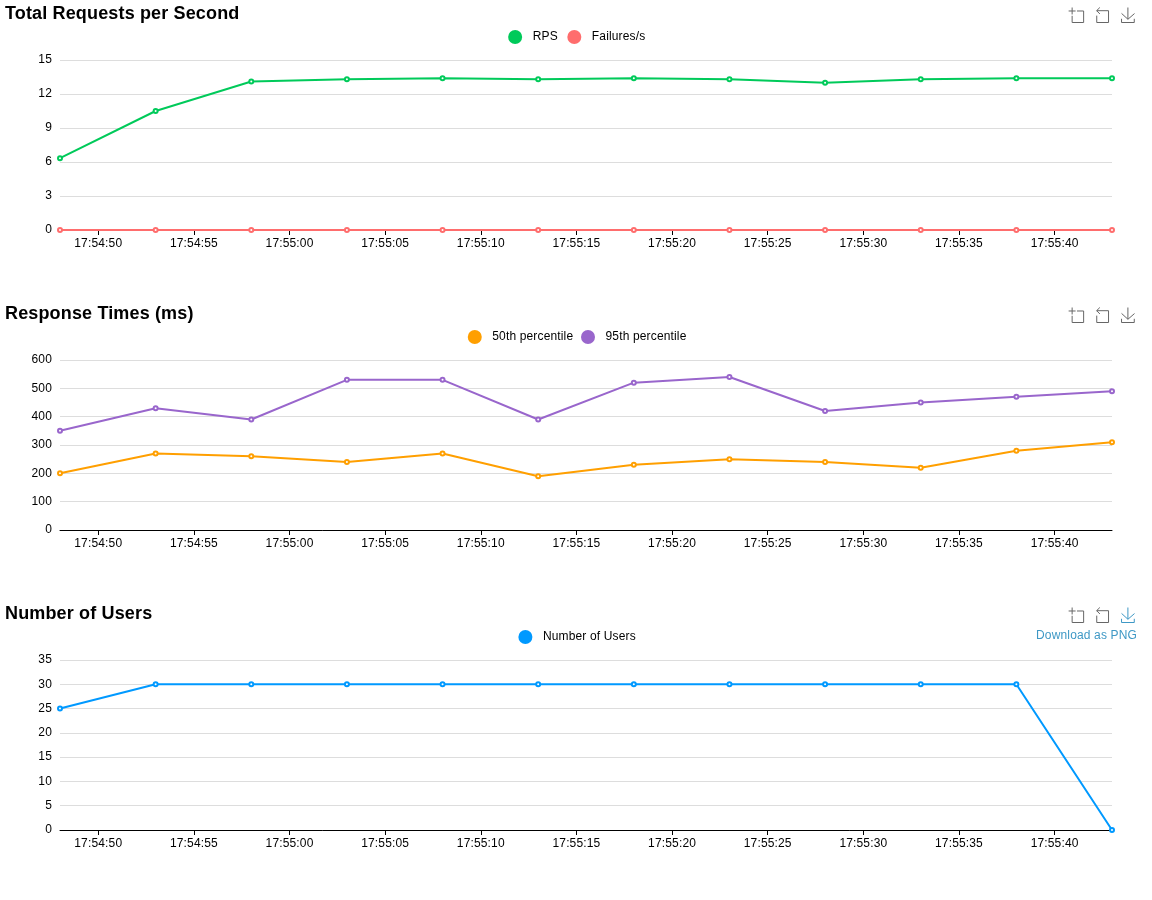
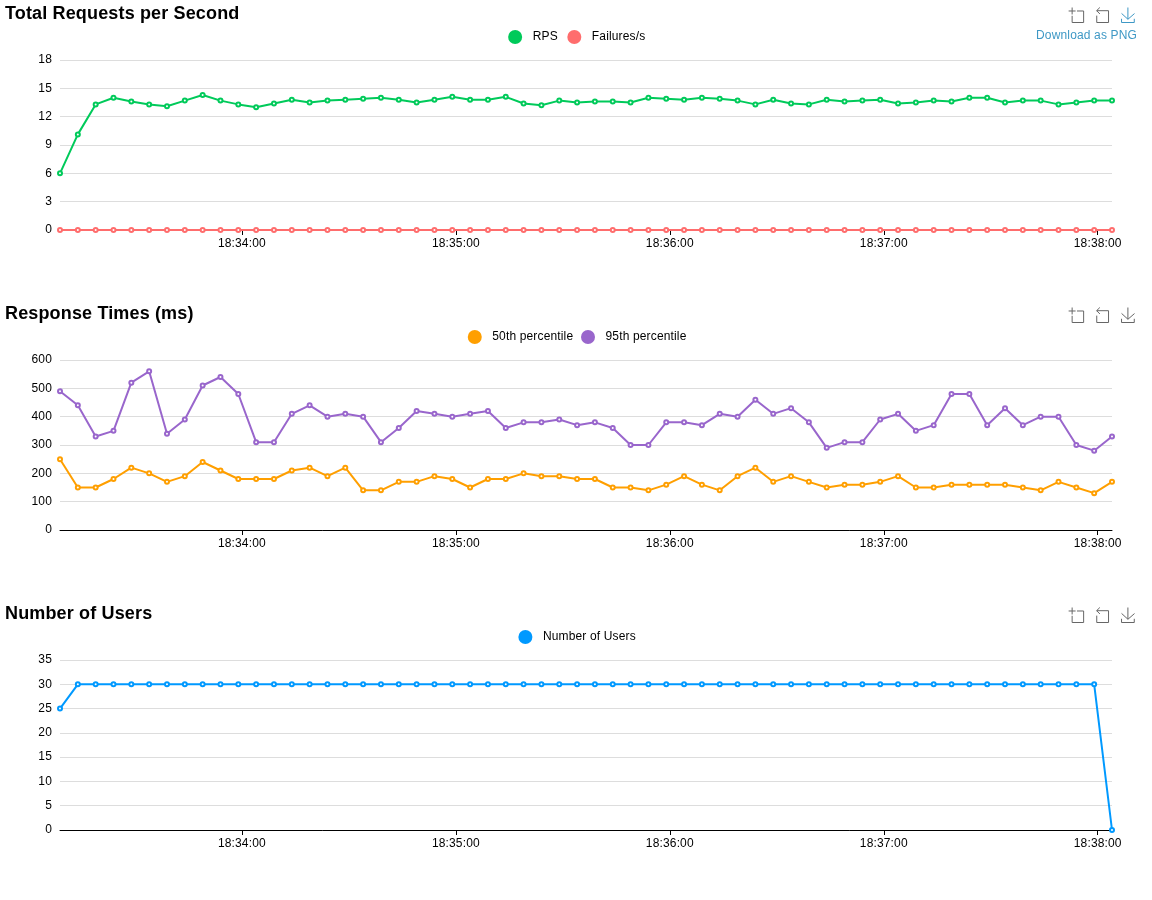
locust report / 30 users / 5 минут

diff --git a/services/drf/tests/external/report.html b/services/drf/tests/external/report.html
@@ -116,7 +116,7 @@
     <div id="root"></div>
 
     <script>
-      window.templateArgs = {"duration": "1 minute", "end_time": "2026-01-13T15:15:39Z", "exceptions_statistics": [], "failures_statistics": [], "history": [{"current_fail_per_sec": ["2026-01-13T15:14:44Z", 0], "current_rps": ["2026-01-13T15:14:44Z", 4.333333333333333], "response_time_percentile_0.5": ["2026-01-13T15:14:44Z", 190.0], "response_time_percentile_0.95": ["2026-01-13T15:14:44Z", 390.0], "time": "2026-01-13T15:14:44Z", "total_avg_response_time": ["2026-01-13T15:14:44Z", 200.65], "user_count": ["2026-01-13T15:14:44Z", 25]}, {"current_fail_per_sec": ["2026-01-13T15:14:49Z", 0], "current_rps": ["2026-01-13T15:14:49Z", 9.5], "response_time_percentile_0.5": ["2026-01-13T15:14:49Z", 140.0], "response_time_percentile_0.95": ["2026-01-13T15:14:49Z", 370.0], "time": "2026-01-13T15:14:49Z", "total_avg_response_time": ["2026-01-13T15:14:49Z", 166.61], "user_count": ["2026-01-13T15:14:49Z", 30]}, {"current_fail_per_sec": ["2026-01-13T15:14:54Z", 0], "current_rps": ["2026-01-13T15:14:54Z", 13.4], "response_time_percentile_0.5": ["2026-01-13T15:14:54Z", 140.0], "response_time_percentile_0.95": ["2026-01-13T15:14:54Z", 330.0], "time": "2026-01-13T15:14:54Z", "total_avg_response_time": ["2026-01-13T15:14:54Z", 167.47], "user_count": ["2026-01-13T15:14:54Z", 30]}, {"current_fail_per_sec": ["2026-01-13T15:14:59Z", 0], "current_rps": ["2026-01-13T15:14:59Z", 13.5], "response_time_percentile_0.5": ["2026-01-13T15:14:59Z", 140.0], "response_time_percentile_0.95": ["2026-01-13T15:14:59Z", 320.0], "time": "2026-01-13T15:14:59Z", "total_avg_response_time": ["2026-01-13T15:14:59Z", 159.53], "user_count": ["2026-01-13T15:14:59Z", 30]}, {"current_fail_per_sec": ["2026-01-13T15:15:04Z", 0], "current_rps": ["2026-01-13T15:15:04Z", 13.4], "response_time_percentile_0.5": ["2026-01-13T15:15:04Z", 150.0], "response_time_percentile_0.95": ["2026-01-13T15:15:04Z", 320.0], "time": "2026-01-13T15:15:04Z", "total_avg_response_time": ["2026-01-13T15:15:04Z", 164.12], "user_count": ["2026-01-13T15:15:04Z", 30]}, {"current_fail_per_sec": ["2026-01-13T15:15:09Z", 0], "current_rps": ["2026-01-13T15:15:09Z", 14.0], "response_time_percentile_0.5": ["2026-01-13T15:15:09Z", 200.0], "response_time_percentile_0.95": ["2026-01-13T15:15:09Z", 360.0], "time": "2026-01-13T15:15:09Z", "total_avg_response_time": ["2026-01-13T15:15:09Z", 173.78], "user_count": ["2026-01-13T15:15:09Z", 30]}, {"current_fail_per_sec": ["2026-01-13T15:15:14Z", 0], "current_rps": ["2026-01-13T15:15:14Z", 13.8], "response_time_percentile_0.5": ["2026-01-13T15:15:14Z", 240.0], "response_time_percentile_0.95": ["2026-01-13T15:15:14Z", 440.0], "time": "2026-01-13T15:15:14Z", "total_avg_response_time": ["2026-01-13T15:15:14Z", 187.19], "user_count": ["2026-01-13T15:15:14Z", 30]}, {"current_fail_per_sec": ["2026-01-13T15:15:19Z", 0], "current_rps": ["2026-01-13T15:15:19Z", 13.5], "response_time_percentile_0.5": ["2026-01-13T15:15:19Z", 280.0], "response_time_percentile_0.95": ["2026-01-13T15:15:19Z", 520.0], "time": "2026-01-13T15:15:19Z", "total_avg_response_time": ["2026-01-13T15:15:19Z", 198.18], "user_count": ["2026-01-13T15:15:19Z", 30]}, {"current_fail_per_sec": ["2026-01-13T15:15:24Z", 0], "current_rps": ["2026-01-13T15:15:24Z", 13.7], "response_time_percentile_0.5": ["2026-01-13T15:15:24Z", 280.0], "response_time_percentile_0.95": ["2026-01-13T15:15:24Z", 660.0], "time": "2026-01-13T15:15:24Z", "total_avg_response_time": ["2026-01-13T15:15:24Z", 211.51], "user_count": ["2026-01-13T15:15:24Z", 30]}, {"current_fail_per_sec": ["2026-01-13T15:15:29Z", 0], "current_rps": ["2026-01-13T15:15:29Z", 13.4], "response_time_percentile_0.5": ["2026-01-13T15:15:29Z", 210.0], "response_time_percentile_0.95": ["2026-01-13T15:15:29Z", 660.0], "time": "2026-01-13T15:15:29Z", "total_avg_response_time": ["2026-01-13T15:15:29Z", 210.4], "user_count": ["2026-01-13T15:15:29Z", 30]}, {"current_fail_per_sec": ["2026-01-13T15:15:34Z", 0], "current_rps": ["2026-01-13T15:15:34Z", 13.2], "response_time_percentile_0.5": ["2026-01-13T15:15:34Z", 200.0], "response_time_percentile_0.95": ["2026-01-13T15:15:34Z", 550.0], "time": "2026-01-13T15:15:34Z", "total_avg_response_time": ["2026-01-13T15:15:34Z", 215.47], "user_count": ["2026-01-13T15:15:34Z", 30]}, {"current_fail_per_sec": ["2026-01-13T15:15:39Z", 0], "current_rps": ["2026-01-13T15:15:39Z", 13.0], "response_time_percentile_0.5": ["2026-01-13T15:15:39Z", 220.0], "response_time_percentile_0.95": ["2026-01-13T15:15:39Z", 540.0], "time": "2026-01-13T15:15:39Z", "total_avg_response_time": ["2026-01-13T15:15:39Z", 217.12], "user_count": ["2026-01-13T15:15:39Z", 0]}], "host": "http://localhost:1338", "is_report": true, "locustfile": "locust.py", "percentiles_to_chart": [0.5, 0.95], "profile": null, "requests_statistics": [{"avg_content_length": 26317.0, "avg_response_time": 25.323206099554746, "current_fail_per_sec": 0.0, "current_rps": 1.2, "max_response_time": 92.0, "median_response_time": 21, "method": "GET", "min_response_time": 15.0, "name": "/", "num_failures": 0, "num_requests": 70, "response_time_percentile_0.95": 50, "response_time_percentile_0.99": 92, "total_fail_per_sec": 0.0, "total_rps": 1.1699288598689708}, {"avg_content_length": 61664.0, "avg_response_time": 215.0285082074726, "current_fail_per_sec": 0.0, "current_rps": 5.9, "max_response_time": 681.0, "median_response_time": 190.0, "method": "GET", "min_response_time": 66.0, "name": "/api/v1/project/", "num_failures": 0, "num_requests": 352, "response_time_percentile_0.95": 470.0, "response_time_percentile_0.99": 550.0, "total_fail_per_sec": 0.0, "total_rps": 5.883070838198253}, {"avg_content_length": 110154.0, "avg_response_time": 255.80753557927088, "current_fail_per_sec": 0.0, "current_rps": 5.9, "max_response_time": 780.0, "median_response_time": 230.0, "method": "GET", "min_response_time": 102.0, "name": "/projects/", "num_failures": 0, "num_requests": 366, "response_time_percentile_0.95": 540.0, "response_time_percentile_0.99": 720.0, "total_fail_per_sec": 0.0, "total_rps": 6.117056610172047}, {"avg_content_length": 81046.04314720813, "avg_response_time": 217.11702707869586, "current_fail_per_sec": 0.0, "current_rps": 13.0, "max_response_time": 780.0, "median_response_time": 190.0, "method": "", "min_response_time": 15.0, "name": "Aggregated", "num_failures": 0, "num_requests": 788, "response_time_percentile_0.95": 480.0, "response_time_percentile_0.99": 660.0, "total_fail_per_sec": 0.0, "total_rps": 13.170056308239271}], "response_time_statistics": [{"0.5": 21, "0.6": 22, "0.7": 24, "0.8": 33, "0.9": 48, "0.95": 50, "0.99": 92, "1.0": 92, "method": "GET", "name": "/"}, {"0.5": 190.0, "0.6": 230.0, "0.7": 270.0, "0.8": 320.0, "0.9": 410.0, "0.95": 470.0, "0.99": 550.0, "1.0": 680.0, "method": "GET", "name": "/api/v1/project/"}, {"0.5": 230.0, "0.6": 270.0, "0.7": 310.0, "0.8": 350.0, "0.9": 430.0, "0.95": 540.0, "0.99": 720.0, "1.0": 780.0, "method": "GET", "name": "/projects/"}, {"0.5": 190.0, "0.6": 230.0, "0.7": 280.0, "0.8": 320.0, "0.9": 410.0, "0.95": 480.0, "0.99": 660.0, "1.0": 780.0, "method": "", "name": "Aggregated"}], "show_download_link": false, "start_time": "2026-01-13T15:14:39Z", "tasks": {"per_class": {"ApiProject": {"ratio": 1.0, "tasks": {"get_main": {"ratio": 0.09090909090909091}, "get_projects": {"ratio": 0.45454545454545453}, "get_projects_api": {"ratio": 0.45454545454545453}}}}, "total": {"ApiProject": {"ratio": 1.0, "tasks": {"get_main": {"ratio": 0.09090909090909091}, "get_projects": {"ratio": 0.45454545454545453}, "get_projects_api": {"ratio": 0.45454545454545453}}}}}}
+      window.templateArgs = {"duration": "5 minutes", "end_time": "2026-01-13T15:38:04Z", "exceptions_statistics": [], "failures_statistics": [], "history": [{"current_fail_per_sec": ["2026-01-13T15:33:09Z", 0], "current_rps": ["2026-01-13T15:33:09Z", 6.0], "response_time_percentile_0.5": ["2026-01-13T15:33:09Z", 250.0], "response_time_percentile_0.95": ["2026-01-13T15:33:09Z", 490.0], "time": "2026-01-13T15:33:09Z", "total_avg_response_time": ["2026-01-13T15:33:09Z", 244.52], "user_count": ["2026-01-13T15:33:09Z", 25]}, {"current_fail_per_sec": ["2026-01-13T15:33:14Z", 0], "current_rps": ["2026-01-13T15:33:14Z", 10.125], "response_time_percentile_0.5": ["2026-01-13T15:33:14Z", 150.0], "response_time_percentile_0.95": ["2026-01-13T15:33:14Z", 440.0], "time": "2026-01-13T15:33:14Z", "total_avg_response_time": ["2026-01-13T15:33:14Z", 189.95], "user_count": ["2026-01-13T15:33:14Z", 30]}, {"current_fail_per_sec": ["2026-01-13T15:33:19Z", 0], "current_rps": ["2026-01-13T15:33:19Z", 13.3], "response_time_percentile_0.5": ["2026-01-13T15:33:19Z", 150.0], "response_time_percentile_0.95": ["2026-01-13T15:33:19Z", 330.0], "time": "2026-01-13T15:33:19Z", "total_avg_response_time": ["2026-01-13T15:33:19Z", 177.52], "user_count": ["2026-01-13T15:33:19Z", 30]}, {"current_fail_per_sec": ["2026-01-13T15:33:24Z", 0], "current_rps": ["2026-01-13T15:33:24Z", 14.0], "response_time_percentile_0.5": ["2026-01-13T15:33:24Z", 180.0], "response_time_percentile_0.95": ["2026-01-13T15:33:24Z", 350.0], "time": "2026-01-13T15:33:24Z", "total_avg_response_time": ["2026-01-13T15:33:24Z", 184.58], "user_count": ["2026-01-13T15:33:24Z", 30]}, {"current_fail_per_sec": ["2026-01-13T15:33:29Z", 0], "current_rps": ["2026-01-13T15:33:29Z", 13.6], "response_time_percentile_0.5": ["2026-01-13T15:33:29Z", 220.0], "response_time_percentile_0.95": ["2026-01-13T15:33:29Z", 520.0], "time": "2026-01-13T15:33:29Z", "total_avg_response_time": ["2026-01-13T15:33:29Z", 202.81], "user_count": ["2026-01-13T15:33:29Z", 30]}, {"current_fail_per_sec": ["2026-01-13T15:33:34Z", 0], "current_rps": ["2026-01-13T15:33:34Z", 13.3], "response_time_percentile_0.5": ["2026-01-13T15:33:34Z", 200.0], "response_time_percentile_0.95": ["2026-01-13T15:33:34Z", 560.0], "time": "2026-01-13T15:33:34Z", "total_avg_response_time": ["2026-01-13T15:33:34Z", 200.83], "user_count": ["2026-01-13T15:33:34Z", 30]}, {"current_fail_per_sec": ["2026-01-13T15:33:39Z", 0], "current_rps": ["2026-01-13T15:33:39Z", 13.1], "response_time_percentile_0.5": ["2026-01-13T15:33:39Z", 170.0], "response_time_percentile_0.95": ["2026-01-13T15:33:39Z", 340.0], "time": "2026-01-13T15:33:39Z", "total_avg_response_time": ["2026-01-13T15:33:39Z", 195.48], "user_count": ["2026-01-13T15:33:39Z", 30]}, {"current_fail_per_sec": ["2026-01-13T15:33:44Z", 0], "current_rps": ["2026-01-13T15:33:44Z", 13.7], "response_time_percentile_0.5": ["2026-01-13T15:33:44Z", 190.0], "response_time_percentile_0.95": ["2026-01-13T15:33:44Z", 390.0], "time": "2026-01-13T15:33:44Z", "total_avg_response_time": ["2026-01-13T15:33:44Z", 197.82], "user_count": ["2026-01-13T15:33:44Z", 30]}, {"current_fail_per_sec": ["2026-01-13T15:33:49Z", 0], "current_rps": ["2026-01-13T15:33:49Z", 14.3], "response_time_percentile_0.5": ["2026-01-13T15:33:49Z", 240.0], "response_time_percentile_0.95": ["2026-01-13T15:33:49Z", 510.0], "time": "2026-01-13T15:33:49Z", "total_avg_response_time": ["2026-01-13T15:33:49Z", 205.03], "user_count": ["2026-01-13T15:33:49Z", 30]}, {"current_fail_per_sec": ["2026-01-13T15:33:54Z", 0], "current_rps": ["2026-01-13T15:33:54Z", 13.7], "response_time_percentile_0.5": ["2026-01-13T15:33:54Z", 210.0], "response_time_percentile_0.95": ["2026-01-13T15:33:54Z", 540.0], "time": "2026-01-13T15:33:54Z", "total_avg_response_time": ["2026-01-13T15:33:54Z", 207.94], "user_count": ["2026-01-13T15:33:54Z", 30]}, {"current_fail_per_sec": ["2026-01-13T15:33:59Z", 0], "current_rps": ["2026-01-13T15:33:59Z", 13.3], "response_time_percentile_0.5": ["2026-01-13T15:33:59Z", 180.0], "response_time_percentile_0.95": ["2026-01-13T15:33:59Z", 480.0], "time": "2026-01-13T15:33:59Z", "total_avg_response_time": ["2026-01-13T15:33:59Z", 203.93], "user_count": ["2026-01-13T15:33:59Z", 30]}, {"current_fail_per_sec": ["2026-01-13T15:34:04Z", 0], "current_rps": ["2026-01-13T15:34:04Z", 13.0], "response_time_percentile_0.5": ["2026-01-13T15:34:04Z", 180.0], "response_time_percentile_0.95": ["2026-01-13T15:34:04Z", 310.0], "time": "2026-01-13T15:34:04Z", "total_avg_response_time": ["2026-01-13T15:34:04Z", 202.76], "user_count": ["2026-01-13T15:34:04Z", 30]}, {"current_fail_per_sec": ["2026-01-13T15:34:09Z", 0], "current_rps": ["2026-01-13T15:34:09Z", 13.4], "response_time_percentile_0.5": ["2026-01-13T15:34:09Z", 180.0], "response_time_percentile_0.95": ["2026-01-13T15:34:09Z", 310.0], "time": "2026-01-13T15:34:09Z", "total_avg_response_time": ["2026-01-13T15:34:09Z", 201.0], "user_count": ["2026-01-13T15:34:09Z", 30]}, {"current_fail_per_sec": ["2026-01-13T15:34:14Z", 0], "current_rps": ["2026-01-13T15:34:14Z", 13.8], "response_time_percentile_0.5": ["2026-01-13T15:34:14Z", 210.0], "response_time_percentile_0.95": ["2026-01-13T15:34:14Z", 410.0], "time": "2026-01-13T15:34:14Z", "total_avg_response_time": ["2026-01-13T15:34:14Z", 203.1], "user_count": ["2026-01-13T15:34:14Z", 30]}, {"current_fail_per_sec": ["2026-01-13T15:34:19Z", 0], "current_rps": ["2026-01-13T15:34:19Z", 13.5], "response_time_percentile_0.5": ["2026-01-13T15:34:19Z", 220.0], "response_time_percentile_0.95": ["2026-01-13T15:34:19Z", 440.0], "time": "2026-01-13T15:34:19Z", "total_avg_response_time": ["2026-01-13T15:34:19Z", 205.04], "user_count": ["2026-01-13T15:34:19Z", 30]}, {"current_fail_per_sec": ["2026-01-13T15:34:24Z", 0], "current_rps": ["2026-01-13T15:34:24Z", 13.7], "response_time_percentile_0.5": ["2026-01-13T15:34:24Z", 190.0], "response_time_percentile_0.95": ["2026-01-13T15:34:24Z", 400.0], "time": "2026-01-13T15:34:24Z", "total_avg_response_time": ["2026-01-13T15:34:24Z", 205.79], "user_count": ["2026-01-13T15:34:24Z", 30]}, {"current_fail_per_sec": ["2026-01-13T15:34:29Z", 0], "current_rps": ["2026-01-13T15:34:29Z", 13.8], "response_time_percentile_0.5": ["2026-01-13T15:34:29Z", 220.0], "response_time_percentile_0.95": ["2026-01-13T15:34:29Z", 410.0], "time": "2026-01-13T15:34:29Z", "total_avg_response_time": ["2026-01-13T15:34:29Z", 206.54], "user_count": ["2026-01-13T15:34:29Z", 30]}, {"current_fail_per_sec": ["2026-01-13T15:34:34Z", 0], "current_rps": ["2026-01-13T15:34:34Z", 13.9], "response_time_percentile_0.5": ["2026-01-13T15:34:34Z", 140.0], "response_time_percentile_0.95": ["2026-01-13T15:34:34Z", 400.0], "time": "2026-01-13T15:34:34Z", "total_avg_response_time": ["2026-01-13T15:34:34Z", 202.04], "user_count": ["2026-01-13T15:34:34Z", 30]}, {"current_fail_per_sec": ["2026-01-13T15:34:39Z", 0], "current_rps": ["2026-01-13T15:34:39Z", 14.0], "response_time_percentile_0.5": ["2026-01-13T15:34:39Z", 140.0], "response_time_percentile_0.95": ["2026-01-13T15:34:39Z", 310.0], "time": "2026-01-13T15:34:39Z", "total_avg_response_time": ["2026-01-13T15:34:39Z", 200.64], "user_count": ["2026-01-13T15:34:39Z", 30]}, {"current_fail_per_sec": ["2026-01-13T15:34:44Z", 0], "current_rps": ["2026-01-13T15:34:44Z", 13.8], "response_time_percentile_0.5": ["2026-01-13T15:34:44Z", 170.0], "response_time_percentile_0.95": ["2026-01-13T15:34:44Z", 360.0], "time": "2026-01-13T15:34:44Z", "total_avg_response_time": ["2026-01-13T15:34:44Z", 199.7], "user_count": ["2026-01-13T15:34:44Z", 30]}, {"current_fail_per_sec": ["2026-01-13T15:34:49Z", 0], "current_rps": ["2026-01-13T15:34:49Z", 13.5], "response_time_percentile_0.5": ["2026-01-13T15:34:49Z", 170.0], "response_time_percentile_0.95": ["2026-01-13T15:34:49Z", 420.0], "time": "2026-01-13T15:34:49Z", "total_avg_response_time": ["2026-01-13T15:34:49Z", 200.42], "user_count": ["2026-01-13T15:34:49Z", 30]}, {"current_fail_per_sec": ["2026-01-13T15:34:54Z", 0], "current_rps": ["2026-01-13T15:34:54Z", 13.8], "response_time_percentile_0.5": ["2026-01-13T15:34:54Z", 190.0], "response_time_percentile_0.95": ["2026-01-13T15:34:54Z", 410.0], "time": "2026-01-13T15:34:54Z", "total_avg_response_time": ["2026-01-13T15:34:54Z", 201.42], "user_count": ["2026-01-13T15:34:54Z", 30]}, {"current_fail_per_sec": ["2026-01-13T15:34:59Z", 0], "current_rps": ["2026-01-13T15:34:59Z", 14.1], "response_time_percentile_0.5": ["2026-01-13T15:34:59Z", 180.0], "response_time_percentile_0.95": ["2026-01-13T15:34:59Z", 400.0], "time": "2026-01-13T15:34:59Z", "total_avg_response_time": ["2026-01-13T15:34:59Z", 200.44], "user_count": ["2026-01-13T15:34:59Z", 30]}, {"current_fail_per_sec": ["2026-01-13T15:35:04Z", 0], "current_rps": ["2026-01-13T15:35:04Z", 13.8], "response_time_percentile_0.5": ["2026-01-13T15:35:04Z", 150.0], "response_time_percentile_0.95": ["2026-01-13T15:35:04Z", 410.0], "time": "2026-01-13T15:35:04Z", "total_avg_response_time": ["2026-01-13T15:35:04Z", 200.46], "user_count": ["2026-01-13T15:35:04Z", 30]}, {"current_fail_per_sec": ["2026-01-13T15:35:09Z", 0], "current_rps": ["2026-01-13T15:35:09Z", 13.8], "response_time_percentile_0.5": ["2026-01-13T15:35:09Z", 180.0], "response_time_percentile_0.95": ["2026-01-13T15:35:09Z", 420.0], "time": "2026-01-13T15:35:09Z", "total_avg_response_time": ["2026-01-13T15:35:09Z", 200.08], "user_count": ["2026-01-13T15:35:09Z", 30]}, {"current_fail_per_sec": ["2026-01-13T15:35:14Z", 0], "current_rps": ["2026-01-13T15:35:14Z", 14.1], "response_time_percentile_0.5": ["2026-01-13T15:35:14Z", 180.0], "response_time_percentile_0.95": ["2026-01-13T15:35:14Z", 360.0], "time": "2026-01-13T15:35:14Z", "total_avg_response_time": ["2026-01-13T15:35:14Z", 199.86], "user_count": ["2026-01-13T15:35:14Z", 30]}, {"current_fail_per_sec": ["2026-01-13T15:35:19Z", 0], "current_rps": ["2026-01-13T15:35:19Z", 13.4], "response_time_percentile_0.5": ["2026-01-13T15:35:19Z", 200.0], "response_time_percentile_0.95": ["2026-01-13T15:35:19Z", 380.0], "time": "2026-01-13T15:35:19Z", "total_avg_response_time": ["2026-01-13T15:35:19Z", 200.28], "user_count": ["2026-01-13T15:35:19Z", 30]}, {"current_fail_per_sec": ["2026-01-13T15:35:24Z", 0], "current_rps": ["2026-01-13T15:35:24Z", 13.2], "response_time_percentile_0.5": ["2026-01-13T15:35:24Z", 190.0], "response_time_percentile_0.95": ["2026-01-13T15:35:24Z", 380.0], "time": "2026-01-13T15:35:24Z", "total_avg_response_time": ["2026-01-13T15:35:24Z", 200.79], "user_count": ["2026-01-13T15:35:24Z", 30]}, {"current_fail_per_sec": ["2026-01-13T15:35:29Z", 0], "current_rps": ["2026-01-13T15:35:29Z", 13.7], "response_time_percentile_0.5": ["2026-01-13T15:35:29Z", 190.0], "response_time_percentile_0.95": ["2026-01-13T15:35:29Z", 390.0], "time": "2026-01-13T15:35:29Z", "total_avg_response_time": ["2026-01-13T15:35:29Z", 200.18], "user_count": ["2026-01-13T15:35:29Z", 30]}, {"current_fail_per_sec": ["2026-01-13T15:35:34Z", 0], "current_rps": ["2026-01-13T15:35:34Z", 13.5], "response_time_percentile_0.5": ["2026-01-13T15:35:34Z", 180.0], "response_time_percentile_0.95": ["2026-01-13T15:35:34Z", 370.0], "time": "2026-01-13T15:35:34Z", "total_avg_response_time": ["2026-01-13T15:35:34Z", 199.96], "user_count": ["2026-01-13T15:35:34Z", 30]}, {"current_fail_per_sec": ["2026-01-13T15:35:39Z", 0], "current_rps": ["2026-01-13T15:35:39Z", 13.6], "response_time_percentile_0.5": ["2026-01-13T15:35:39Z", 180.0], "response_time_percentile_0.95": ["2026-01-13T15:35:39Z", 380.0], "time": "2026-01-13T15:35:39Z", "total_avg_response_time": ["2026-01-13T15:35:39Z", 199.63], "user_count": ["2026-01-13T15:35:39Z", 30]}, {"current_fail_per_sec": ["2026-01-13T15:35:44Z", 0], "current_rps": ["2026-01-13T15:35:44Z", 13.6], "response_time_percentile_0.5": ["2026-01-13T15:35:44Z", 150.0], "response_time_percentile_0.95": ["2026-01-13T15:35:44Z", 360.0], "time": "2026-01-13T15:35:44Z", "total_avg_response_time": ["2026-01-13T15:35:44Z", 197.85], "user_count": ["2026-01-13T15:35:44Z", 30]}, {"current_fail_per_sec": ["2026-01-13T15:35:49Z", 0], "current_rps": ["2026-01-13T15:35:49Z", 13.5], "response_time_percentile_0.5": ["2026-01-13T15:35:49Z", 150.0], "response_time_percentile_0.95": ["2026-01-13T15:35:49Z", 300.0], "time": "2026-01-13T15:35:49Z", "total_avg_response_time": ["2026-01-13T15:35:49Z", 196.35], "user_count": ["2026-01-13T15:35:49Z", 30]}, {"current_fail_per_sec": ["2026-01-13T15:35:54Z", 0], "current_rps": ["2026-01-13T15:35:54Z", 14.0], "response_time_percentile_0.5": ["2026-01-13T15:35:54Z", 140.0], "response_time_percentile_0.95": ["2026-01-13T15:35:54Z", 300.0], "time": "2026-01-13T15:35:54Z", "total_avg_response_time": ["2026-01-13T15:35:54Z", 194.78], "user_count": ["2026-01-13T15:35:54Z", 30]}, {"current_fail_per_sec": ["2026-01-13T15:35:59Z", 0], "current_rps": ["2026-01-13T15:35:59Z", 13.9], "response_time_percentile_0.5": ["2026-01-13T15:35:59Z", 160.0], "response_time_percentile_0.95": ["2026-01-13T15:35:59Z", 380.0], "time": "2026-01-13T15:35:59Z", "total_avg_response_time": ["2026-01-13T15:35:59Z", 195.48], "user_count": ["2026-01-13T15:35:59Z", 30]}, {"current_fail_per_sec": ["2026-01-13T15:36:04Z", 0], "current_rps": ["2026-01-13T15:36:04Z", 13.8], "response_time_percentile_0.5": ["2026-01-13T15:36:04Z", 190.0], "response_time_percentile_0.95": ["2026-01-13T15:36:04Z", 380.0], "time": "2026-01-13T15:36:04Z", "total_avg_response_time": ["2026-01-13T15:36:04Z", 194.82], "user_count": ["2026-01-13T15:36:04Z", 30]}, {"current_fail_per_sec": ["2026-01-13T15:36:09Z", 0], "current_rps": ["2026-01-13T15:36:09Z", 14.0], "response_time_percentile_0.5": ["2026-01-13T15:36:09Z", 160.0], "response_time_percentile_0.95": ["2026-01-13T15:36:09Z", 370.0], "time": "2026-01-13T15:36:09Z", "total_avg_response_time": ["2026-01-13T15:36:09Z", 194.3], "user_count": ["2026-01-13T15:36:09Z", 30]}, {"current_fail_per_sec": ["2026-01-13T15:36:14Z", 0], "current_rps": ["2026-01-13T15:36:14Z", 13.9], "response_time_percentile_0.5": ["2026-01-13T15:36:14Z", 140.0], "response_time_percentile_0.95": ["2026-01-13T15:36:14Z", 410.0], "time": "2026-01-13T15:36:14Z", "total_avg_response_time": ["2026-01-13T15:36:14Z", 193.4], "user_count": ["2026-01-13T15:36:14Z", 30]}, {"current_fail_per_sec": ["2026-01-13T15:36:19Z", 0], "current_rps": ["2026-01-13T15:36:19Z", 13.7], "response_time_percentile_0.5": ["2026-01-13T15:36:19Z", 190.0], "response_time_percentile_0.95": ["2026-01-13T15:36:19Z", 400.0], "time": "2026-01-13T15:36:19Z", "total_avg_response_time": ["2026-01-13T15:36:19Z", 194.92], "user_count": ["2026-01-13T15:36:19Z", 30]}, {"current_fail_per_sec": ["2026-01-13T15:36:24Z", 0], "current_rps": ["2026-01-13T15:36:24Z", 13.3], "response_time_percentile_0.5": ["2026-01-13T15:36:24Z", 220.0], "response_time_percentile_0.95": ["2026-01-13T15:36:24Z", 460.0], "time": "2026-01-13T15:36:24Z", "total_avg_response_time": ["2026-01-13T15:36:24Z", 195.52], "user_count": ["2026-01-13T15:36:24Z", 30]}, {"current_fail_per_sec": ["2026-01-13T15:36:29Z", 0], "current_rps": ["2026-01-13T15:36:29Z", 13.8], "response_time_percentile_0.5": ["2026-01-13T15:36:29Z", 170.0], "response_time_percentile_0.95": ["2026-01-13T15:36:29Z", 410.0], "time": "2026-01-13T15:36:29Z", "total_avg_response_time": ["2026-01-13T15:36:29Z", 195.19], "user_count": ["2026-01-13T15:36:29Z", 30]}, {"current_fail_per_sec": ["2026-01-13T15:36:34Z", 0], "current_rps": ["2026-01-13T15:36:34Z", 13.4], "response_time_percentile_0.5": ["2026-01-13T15:36:34Z", 190.0], "response_time_percentile_0.95": ["2026-01-13T15:36:34Z", 430.0], "time": "2026-01-13T15:36:34Z", "total_avg_response_time": ["2026-01-13T15:36:34Z", 196.15], "user_count": ["2026-01-13T15:36:34Z", 30]}, {"current_fail_per_sec": ["2026-01-13T15:36:39Z", 0], "current_rps": ["2026-01-13T15:36:39Z", 13.3], "response_time_percentile_0.5": ["2026-01-13T15:36:39Z", 170.0], "response_time_percentile_0.95": ["2026-01-13T15:36:39Z", 380.0], "time": "2026-01-13T15:36:39Z", "total_avg_response_time": ["2026-01-13T15:36:39Z", 195.37], "user_count": ["2026-01-13T15:36:39Z", 30]}, {"current_fail_per_sec": ["2026-01-13T15:36:44Z", 0], "current_rps": ["2026-01-13T15:36:44Z", 13.8], "response_time_percentile_0.5": ["2026-01-13T15:36:44Z", 150.0], "response_time_percentile_0.95": ["2026-01-13T15:36:44Z", 290.0], "time": "2026-01-13T15:36:44Z", "total_avg_response_time": ["2026-01-13T15:36:44Z", 194.13], "user_count": ["2026-01-13T15:36:44Z", 30]}, {"current_fail_per_sec": ["2026-01-13T15:36:49Z", 0], "current_rps": ["2026-01-13T15:36:49Z", 13.6], "response_time_percentile_0.5": ["2026-01-13T15:36:49Z", 160.0], "response_time_percentile_0.95": ["2026-01-13T15:36:49Z", 310.0], "time": "2026-01-13T15:36:49Z", "total_avg_response_time": ["2026-01-13T15:36:49Z", 194.0], "user_count": ["2026-01-13T15:36:49Z", 30]}, {"current_fail_per_sec": ["2026-01-13T15:36:54Z", 0], "current_rps": ["2026-01-13T15:36:54Z", 13.7], "response_time_percentile_0.5": ["2026-01-13T15:36:54Z", 160.0], "response_time_percentile_0.95": ["2026-01-13T15:36:54Z", 310.0], "time": "2026-01-13T15:36:54Z", "total_avg_response_time": ["2026-01-13T15:36:54Z", 193.21], "user_count": ["2026-01-13T15:36:54Z", 30]}, {"current_fail_per_sec": ["2026-01-13T15:36:59Z", 0], "current_rps": ["2026-01-13T15:36:59Z", 13.8], "response_time_percentile_0.5": ["2026-01-13T15:36:59Z", 170.0], "response_time_percentile_0.95": ["2026-01-13T15:36:59Z", 390.0], "time": "2026-01-13T15:36:59Z", "total_avg_response_time": ["2026-01-13T15:36:59Z", 193.68], "user_count": ["2026-01-13T15:36:59Z", 30]}, {"current_fail_per_sec": ["2026-01-13T15:37:04Z", 0], "current_rps": ["2026-01-13T15:37:04Z", 13.4], "response_time_percentile_0.5": ["2026-01-13T15:37:04Z", 190.0], "response_time_percentile_0.95": ["2026-01-13T15:37:04Z", 410.0], "time": "2026-01-13T15:37:04Z", "total_avg_response_time": ["2026-01-13T15:37:04Z", 193.48], "user_count": ["2026-01-13T15:37:04Z", 30]}, {"current_fail_per_sec": ["2026-01-13T15:37:09Z", 0], "current_rps": ["2026-01-13T15:37:09Z", 13.5], "response_time_percentile_0.5": ["2026-01-13T15:37:09Z", 150.0], "response_time_percentile_0.95": ["2026-01-13T15:37:09Z", 350.0], "time": "2026-01-13T15:37:09Z", "total_avg_response_time": ["2026-01-13T15:37:09Z", 192.95], "user_count": ["2026-01-13T15:37:09Z", 30]}, {"current_fail_per_sec": ["2026-01-13T15:37:14Z", 0], "current_rps": ["2026-01-13T15:37:14Z", 13.7], "response_time_percentile_0.5": ["2026-01-13T15:37:14Z", 150.0], "response_time_percentile_0.95": ["2026-01-13T15:37:14Z", 370.0], "time": "2026-01-13T15:37:14Z", "total_avg_response_time": ["2026-01-13T15:37:14Z", 192.96], "user_count": ["2026-01-13T15:37:14Z", 30]}, {"current_fail_per_sec": ["2026-01-13T15:37:19Z", 0], "current_rps": ["2026-01-13T15:37:19Z", 13.6], "response_time_percentile_0.5": ["2026-01-13T15:37:19Z", 160.0], "response_time_percentile_0.95": ["2026-01-13T15:37:19Z", 480.0], "time": "2026-01-13T15:37:19Z", "total_avg_response_time": ["2026-01-13T15:37:19Z", 193.46], "user_count": ["2026-01-13T15:37:19Z", 30]}, {"current_fail_per_sec": ["2026-01-13T15:37:24Z", 0], "current_rps": ["2026-01-13T15:37:24Z", 14.0], "response_time_percentile_0.5": ["2026-01-13T15:37:24Z", 160.0], "response_time_percentile_0.95": ["2026-01-13T15:37:24Z", 480.0], "time": "2026-01-13T15:37:24Z", "total_avg_response_time": ["2026-01-13T15:37:24Z", 193.19], "user_count": ["2026-01-13T15:37:24Z", 30]}, {"current_fail_per_sec": ["2026-01-13T15:37:29Z", 0], "current_rps": ["2026-01-13T15:37:29Z", 14.0], "response_time_percentile_0.5": ["2026-01-13T15:37:29Z", 160.0], "response_time_percentile_0.95": ["2026-01-13T15:37:29Z", 370.0], "time": "2026-01-13T15:37:29Z", "total_avg_response_time": ["2026-01-13T15:37:29Z", 192.86], "user_count": ["2026-01-13T15:37:29Z", 30]}, {"current_fail_per_sec": ["2026-01-13T15:37:34Z", 0], "current_rps": ["2026-01-13T15:37:34Z", 13.5], "response_time_percentile_0.5": ["2026-01-13T15:37:34Z", 160.0], "response_time_percentile_0.95": ["2026-01-13T15:37:34Z", 430.0], "time": "2026-01-13T15:37:34Z", "total_avg_response_time": ["2026-01-13T15:37:34Z", 192.7], "user_count": ["2026-01-13T15:37:34Z", 30]}, {"current_fail_per_sec": ["2026-01-13T15:37:39Z", 0], "current_rps": ["2026-01-13T15:37:39Z", 13.7], "response_time_percentile_0.5": ["2026-01-13T15:37:39Z", 150.0], "response_time_percentile_0.95": ["2026-01-13T15:37:39Z", 370.0], "time": "2026-01-13T15:37:39Z", "total_avg_response_time": ["2026-01-13T15:37:39Z", 191.79], "user_count": ["2026-01-13T15:37:39Z", 30]}, {"current_fail_per_sec": ["2026-01-13T15:37:44Z", 0], "current_rps": ["2026-01-13T15:37:44Z", 13.7], "response_time_percentile_0.5": ["2026-01-13T15:37:44Z", 140.0], "response_time_percentile_0.95": ["2026-01-13T15:37:44Z", 400.0], "time": "2026-01-13T15:37:44Z", "total_avg_response_time": ["2026-01-13T15:37:44Z", 192.03], "user_count": ["2026-01-13T15:37:44Z", 30]}, {"current_fail_per_sec": ["2026-01-13T15:37:49Z", 0], "current_rps": ["2026-01-13T15:37:49Z", 13.3], "response_time_percentile_0.5": ["2026-01-13T15:37:49Z", 170.0], "response_time_percentile_0.95": ["2026-01-13T15:37:49Z", 400.0], "time": "2026-01-13T15:37:49Z", "total_avg_response_time": ["2026-01-13T15:37:49Z", 191.76], "user_count": ["2026-01-13T15:37:49Z", 30]}, {"current_fail_per_sec": ["2026-01-13T15:37:54Z", 0], "current_rps": ["2026-01-13T15:37:54Z", 13.5], "response_time_percentile_0.5": ["2026-01-13T15:37:54Z", 150.0], "response_time_percentile_0.95": ["2026-01-13T15:37:54Z", 300.0], "time": "2026-01-13T15:37:54Z", "total_avg_response_time": ["2026-01-13T15:37:54Z", 190.88], "user_count": ["2026-01-13T15:37:54Z", 30]}, {"current_fail_per_sec": ["2026-01-13T15:37:59Z", 0], "current_rps": ["2026-01-13T15:37:59Z", 13.7], "response_time_percentile_0.5": ["2026-01-13T15:37:59Z", 130.0], "response_time_percentile_0.95": ["2026-01-13T15:37:59Z", 280.0], "time": "2026-01-13T15:37:59Z", "total_avg_response_time": ["2026-01-13T15:37:59Z", 190.04], "user_count": ["2026-01-13T15:37:59Z", 30]}, {"current_fail_per_sec": ["2026-01-13T15:38:04Z", 0], "current_rps": ["2026-01-13T15:38:04Z", 13.7], "response_time_percentile_0.5": ["2026-01-13T15:38:04Z", 170.0], "response_time_percentile_0.95": ["2026-01-13T15:38:04Z", 330.0], "time": "2026-01-13T15:38:04Z", "total_avg_response_time": ["2026-01-13T15:38:04Z", 190.23], "user_count": ["2026-01-13T15:38:04Z", 0]}], "host": "http://localhost:1338", "is_report": true, "locustfile": "locust.py", "percentiles_to_chart": [0.5, 0.95], "profile": null, "requests_statistics": [{"avg_content_length": 26317.0, "avg_response_time": 22.15162579119779, "current_fail_per_sec": 0.0, "current_rps": 1.3, "max_response_time": 90.0, "median_response_time": 18, "method": "GET", "min_response_time": 13.0, "name": "/", "num_failures": 0, "num_requests": 340, "response_time_percentile_0.95": 42, "response_time_percentile_0.99": 56, "total_fail_per_sec": 0.0, "total_rps": 1.1337062093274932}, {"avg_content_length": 61664.0, "avg_response_time": 185.10368127192973, "current_fail_per_sec": 0.0, "current_rps": 7.8, "max_response_time": 652.0, "median_response_time": 160.0, "method": "GET", "min_response_time": 65.0, "name": "/api/v1/project/", "num_failures": 0, "num_requests": 1868, "response_time_percentile_0.95": 390.0, "response_time_percentile_0.99": 500.0, "total_fail_per_sec": 0.0, "total_rps": 6.228715291246345}, {"avg_content_length": 110154.0, "avg_response_time": 226.07449194412, "current_fail_per_sec": 0.0, "current_rps": 4.6, "max_response_time": 691.0, "median_response_time": 210.0, "method": "GET", "min_response_time": 97.0, "name": "/projects/", "num_failures": 0, "num_requests": 1862, "response_time_percentile_0.95": 420.0, "response_time_percentile_0.99": 530.0, "total_fail_per_sec": 0.0, "total_rps": 6.2087087110817425}, {"avg_content_length": 80895.05651105651, "avg_response_time": 190.23487306754902, "current_fail_per_sec": 0.0, "current_rps": 13.7, "max_response_time": 691.0, "median_response_time": 170.0, "method": "", "min_response_time": 13.0, "name": "Aggregated", "num_failures": 0, "num_requests": 4070, "response_time_percentile_0.95": 400.0, "response_time_percentile_0.99": 500.0, "total_fail_per_sec": 0.0, "total_rps": 13.57113021165558}], "response_time_statistics": [{"0.5": 18, "0.6": 19, "0.7": 21, "0.8": 29, "0.9": 37, "0.95": 42, "0.99": 56, "1.0": 90, "method": "GET", "name": "/"}, {"0.5": 160.0, "0.6": 190.0, "0.7": 220.0, "0.8": 270.0, "0.9": 330.0, "0.95": 390.0, "0.99": 500.0, "1.0": 650.0, "method": "GET", "name": "/api/v1/project/"}, {"0.5": 210.0, "0.6": 240.0, "0.7": 270.0, "0.8": 300.0, "0.9": 370.0, "0.95": 420.0, "0.99": 530.0, "1.0": 690.0, "method": "GET", "name": "/projects/"}, {"0.5": 170.0, "0.6": 200.0, "0.7": 240.0, "0.8": 280.0, "0.9": 350.0, "0.95": 400.0, "0.99": 500.0, "1.0": 690.0, "method": "", "name": "Aggregated"}], "show_download_link": false, "start_time": "2026-01-13T15:33:04Z", "tasks": {"per_class": {"ApiProject": {"ratio": 1.0, "tasks": {"get_main": {"ratio": 0.09090909090909091}, "get_projects": {"ratio": 0.45454545454545453}, "get_projects_api": {"ratio": 0.45454545454545453}}}}, "total": {"ApiProject": {"ratio": 1.0, "tasks": {"get_main": {"ratio": 0.09090909090909091}, "get_projects": {"ratio": 0.45454545454545453}, "get_projects_api": {"ratio": 0.45454545454545453}}}}}}
       window.theme = "light"
     </script>
     
